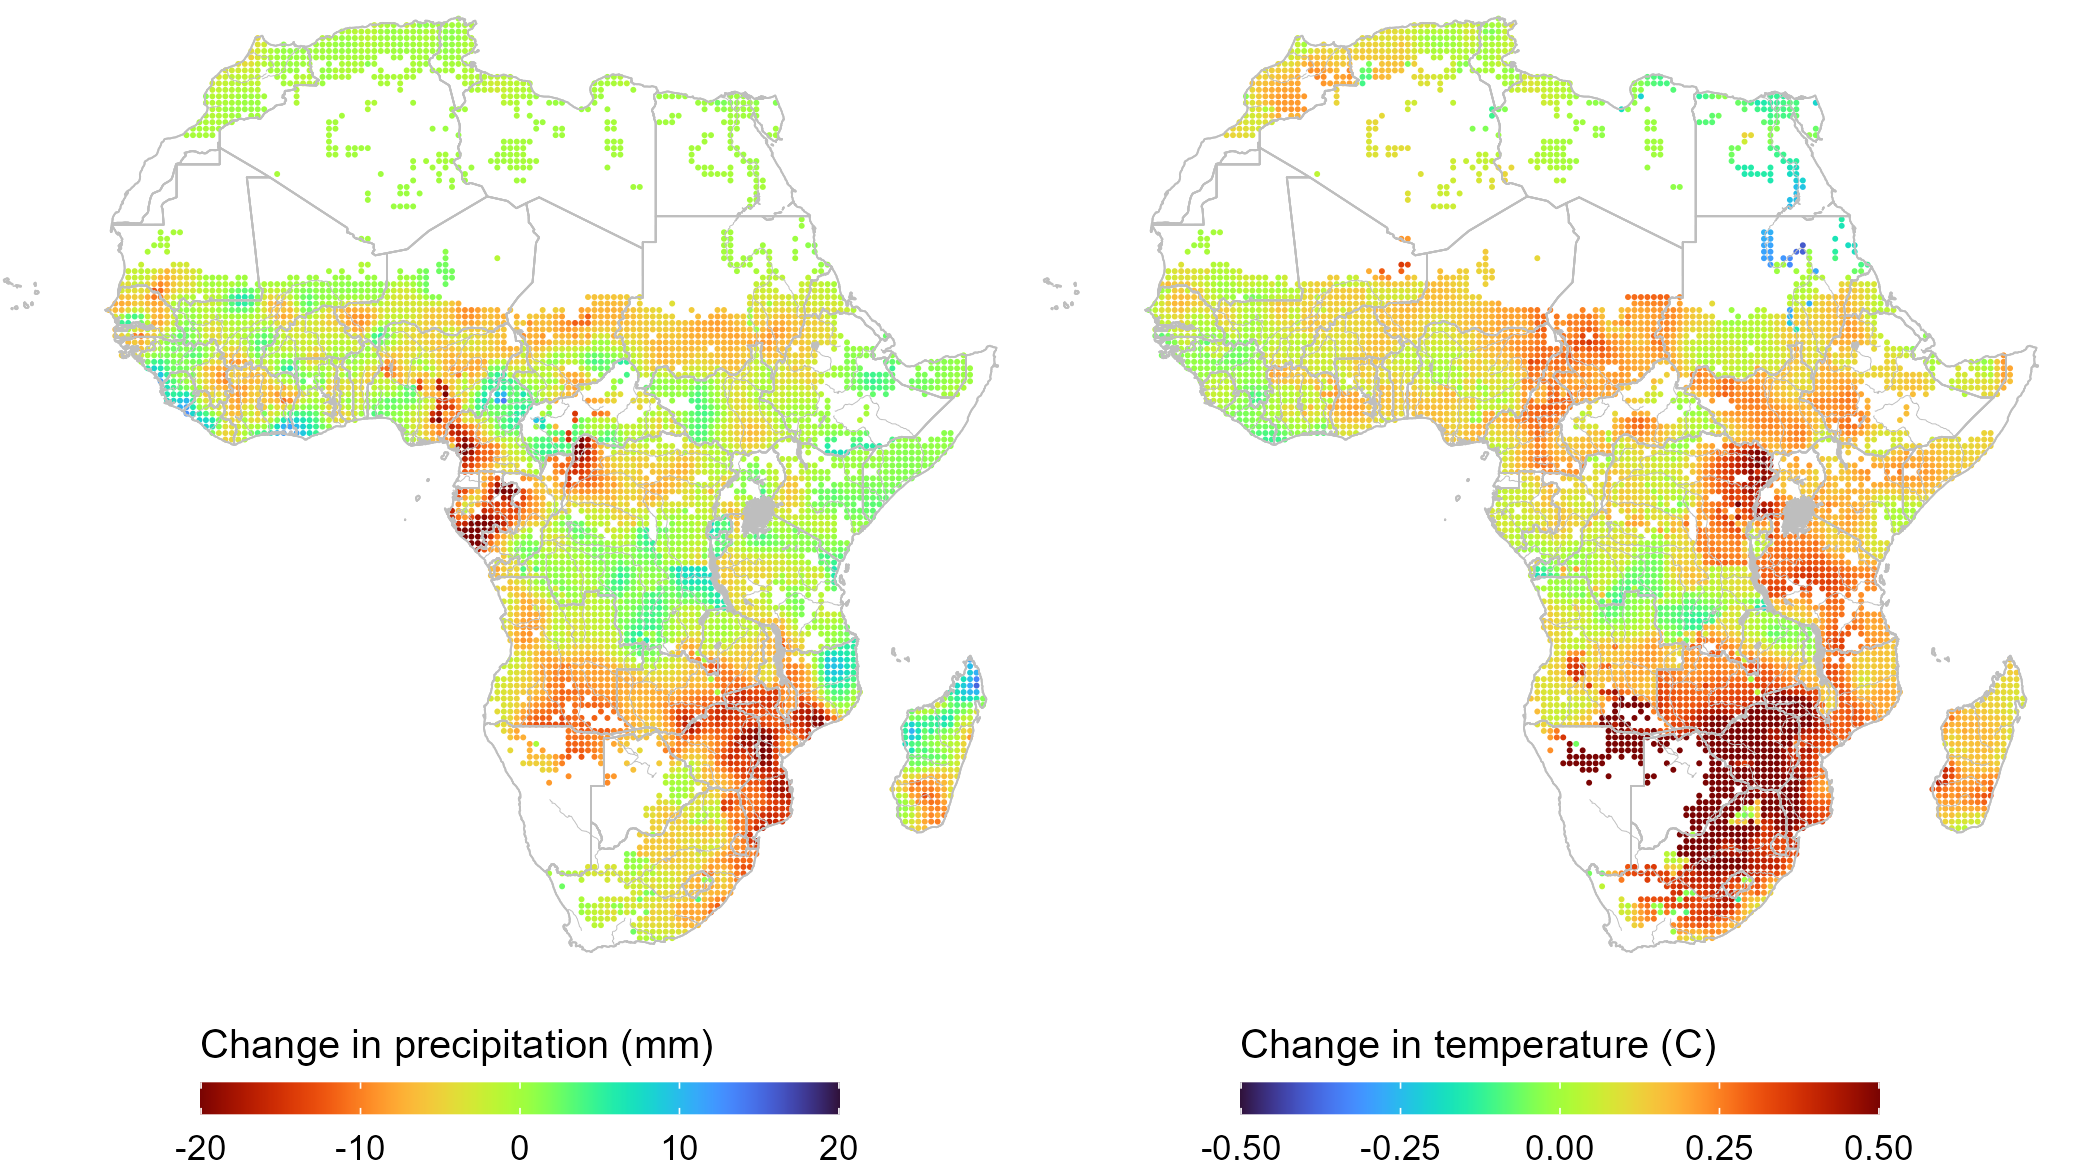
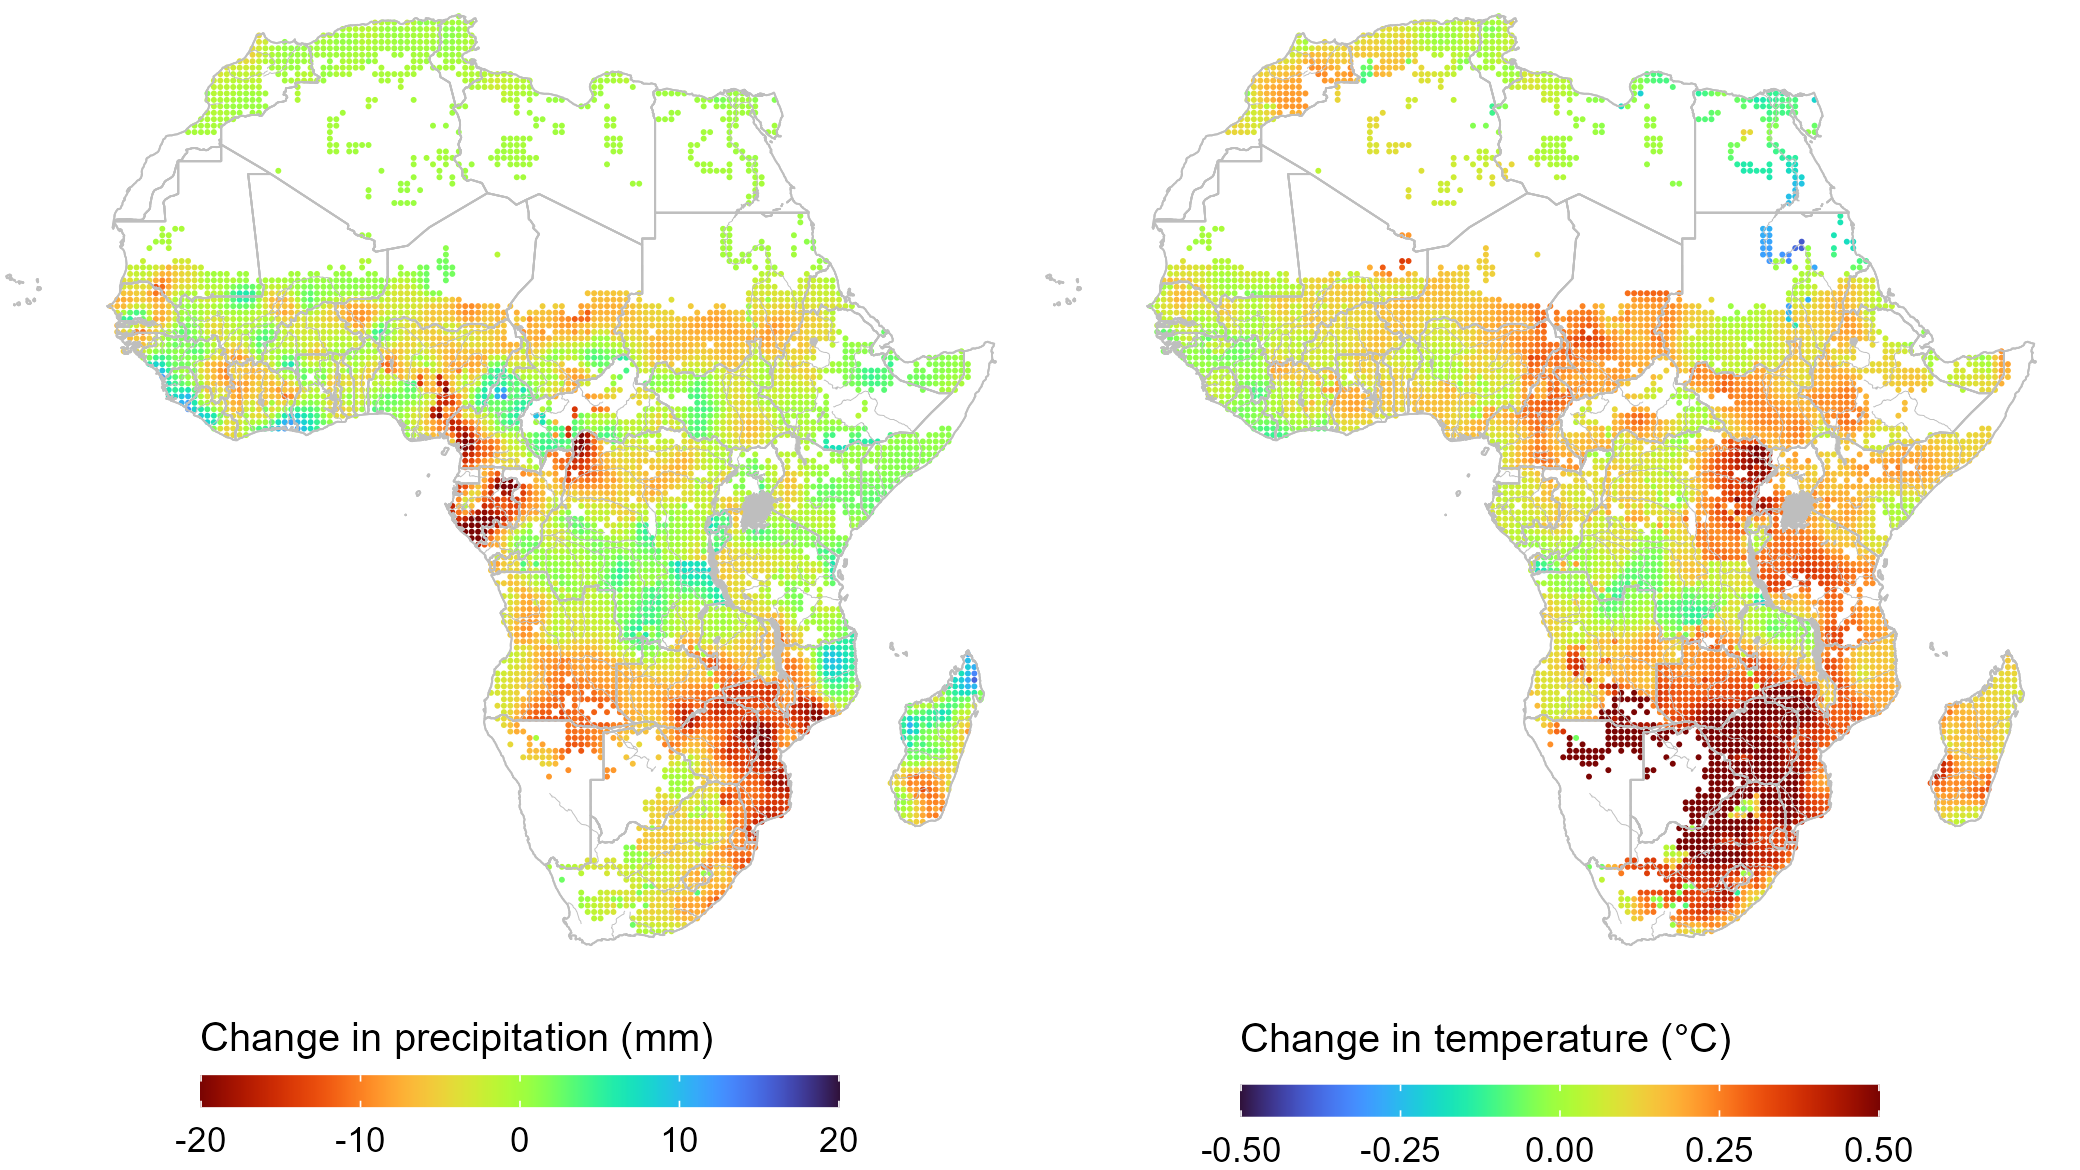
enso

diff --git a/ensoconflict/ensoconflict.html b/ensoconflict/ensoconflict.html
@@ -4,7 +4,7 @@
     <title>Climate, Crops, and Postharvest Conflict</title>
     <meta charset="utf-8" />
     <meta name="author" content="David Ubilava" />
-    <script src="libs/header-attrs-2.23/header-attrs.js"></script>
+    <script src="libs/header-attrs-2.25/header-attrs.js"></script>
     <link href="libs/remark-css-0.0.1/default.css" rel="stylesheet" />
     <link href="libs/remark-css-0.0.1/metropolis.css" rel="stylesheet" />
     <link href="libs/remark-css-0.0.1/metropolis-fonts.css" rel="stylesheet" />
@@ -18,7 +18,7 @@ class: center, middle, inverse, title-slide
 # Climate, Crops, and Postharvest Conflict
 ]
 .subtitle[
-## Presented at Semi-Periodic Agricultural &amp; Development Economics Research Symposium
+## Presented at the Sydney Environment Institute Lunchtime Seminar Series
 ]
 .author[
 ### David Ubilava
@@ -43,14 +43,14 @@ class: center, middle, inverse, title-slide
 ---
 
 
-# Precipitation forecast for Dec 2023 - Feb 2024
+# Dec 2023 - Feb 2024 forecasts (relative to 1991-2020)
 
-.left-35[
-![](figures/drought2024.png)
+.left-40[
+![](figures/DJF24_Afr_pcp.gif)
 ]
 
-.right-35[
-![](figures/floods2024.png)
+.right-40[
+![](figures/DJF24_Afr_tmp.gif)
 ]
 
 ---
@@ -70,14 +70,14 @@ In these locations, we would expect the effect to manifest itself **during the h
 
 # Yes... El Niño events reduce conflict!
 
-But **only** political violence targeted at civilians, and **only** in locations with crop agriculture and during the early postharvest season. 
+In locations with crop agriculture during the early postharvest season. 
 
-**A 1&amp;deg;C increase in the December Oceanic Niño Index (ONI)&amp;mdash;typically indicative of a moderate El Niño event&amp;mdash;is associated with at least three percent reduction in political violence during the three-months period after harvest (evaluated at average cropland size and average crop growing season intensity of ENSO teleconnections).**
+**A 1&amp;deg;C increase in the December Oceanic Niño Index (ONI)&amp;mdash;typically indicative of a moderate El Niño event&amp;mdash;is associated with at least three percent reduction in political violence with civilian targeting during the three-months period after harvest (evaluated at average cropland size and average crop growing season intensity of ENSO teleconnections).**
 
 ---
 
 
-# Historical evidence: The late 19th cebtury El Niño events
+# Anecdotal evidence: Late 19th century El Niño events
 
 
 As a result of (or in relation to) the 1876-78 El Niño events:
@@ -88,11 +88,12 @@ As a result of (or in relation to) the 1876-78 El Niño events:
 ---
 
 
-# Historical evidence: The late 19th cebtury El Niño events
+# Anecdotal evidence: Late 19th century El Niño events
 
-In Ethiopia, 'The Cruel Days' of 1888-92 were likely triggered by El Niño events that brought about droughts. 
+In Ethiopia, 'The Great Famine of 1888-92' was likely triggered (or, at least, partly aided) by El Niño events that brought about droughts. 
 
 - The lack of food provision turned provincial governors and their warriors into foraging bandits. Trade routes in Ethiopia and neighboring countries fell victim to raids aimed at appropriating imported grain (Davis, 2002).
+- Like Dutch colonialists in Indonesia, Italian invaders in Ethiopia used the pretext of abandoned lands to pave the way for the colonization of the Eritrean highlands and the Tigray plateau (Davis, 2002).
 
 ---
 
@@ -114,30 +115,21 @@ Location and timing are typically known well in advance, but crop yields are det
 
 Crop growing season weather and realized yields can influence perpetrators’ decisions as they assess whether the potential spoils to be appropriated are worth their effort ([Koren and Bagozzi, 2017](https://doi.org/10.1177/002234331668454); [McGuirk and Burke 2020](https://doi.org/10.1086/709993)).
 
-Changes in agricultural yields can induce social unrest, as farmers and non-farmers assess their well-being relative to the expectations or to the well-being of others ([Mitra and Ray, 2014](https://doi.org/10.1086/676316); [Hendrix and Haggard, 2015](https://doi.org/10.1177/00223433145615)).
+Resentment, as farmers and non-farmers assess their well-being relative to the expectations or to the well-being of others, can amplify political violence ([Mitra and Ray, 2014](https://doi.org/10.1086/676316); [Hendrix and Haggard, 2015](https://doi.org/10.1177/00223433145615)).
 
 ---
 
 
-# Conflict trends and spatial coverage
+# Oceanic Niño Index
 
 .right-85[
 
-![](figures/conflict.png)
+![](figures/oni.png)
 
 ]
 
 ---
 
-# Crop production and harvest seasons
-
-.right-85[
-
-![](figures/crops.png)
-
-]
-
----
 
 # ENSO teleconnections
 
@@ -149,6 +141,7 @@ Changes in agricultural yields can induce social unrest, as farmers and non-farm
 
 ---
 
+
 # Local weather responses to El Niño events
 
 .right-85[
@@ -159,6 +152,29 @@ Changes in agricultural yields can induce social unrest, as farmers and non-farm
 
 ---
 
+
+# Crop production and harvest seasons
+
+.right-85[
+
+![](figures/crops.png)
+
+]
+
+---
+
+
+# Political violence over time and across space
+
+.right-85[
+
+![](figures/conflict.png)
+
+]
+
+---
+
+
 # Research design
 
 I exploit variations in the ENSO–conflict relationship between cells with different numbers of months during the crop growing season, in which changes in local weather are linked to changes in sea surface temperatures during the peak ENSO season. 
@@ -168,101 +184,57 @@ The ENSO–conflict relationship in locations with small or no cropland is assum
 ---
 
 
-# Effect of El Niño on conflict
 
-`$$y_{it}=\alpha\tau_i s_t+\theta ' x_{it}+\mu_i+\lambda_t+\varepsilon_{it}$$`
+# Main result
 
-.right-50[
-![](figures/reg1.png)
-]
+A 1&amp;deg;C increase in growing-season-adjusted December ONI **reduces** political violence by `\(3.6\%\)` during the postharvest season. This effect is relative to the observed average incidents conflict in croplands (0.04) evaluated at the average cropland size (9,000 hectares) and the average teleconnection intensity (0.28).
 
----
-
-# A crop year adjusted ONI
-
-.right-85[
-
-![](figures/scheme.png)
-
-]
-
----
-
-
-# Effect of El Niño on conflict in croplands
-
-`$$y_{it}=\alpha\tau_i s_t+\beta a_i\tau_i^{gs} s_t^{gs}+\theta ' x_{it}+\mu_i+\lambda_t+\varepsilon_{it}$$`
-
-.right-50[
-![](figures/reg2.png)
-]
-
----
-
-
-# Effect of El Niño on postharvest conflict in croplands
-
-`$$y_{it}=\alpha\tau_i s_t+\beta a_i\tau_i^{gs} s_t^{gs}+\gamma a_i\tau_i^{gs} s_t^{gs}d_{it}+\delta a_i d_{it}+\theta ' x_{it}+\mu_i+\lambda_t+\varepsilon_{it}$$`
-
-.right-50[
-![](figures/reg3.png)
-]
 
 ---
 
 # Robustness checks
 
-The estimated effect is not sensitive to
+The estimated effect is not (overly) sensitive to
 
 - different sets of fixed effects
 - different sizes of postharvest windows
-- omitting conflict 'hotspots'
+- omitting conflict hotspots
+- different measures of teleconnection
 - using incidence as the dependent variable
 
 ---
 
-# 'Bad' El Niño
+# Adverse El Niño
 
-.left-45[
-![](figures/goodbad.png)
-]
+In a subset of countries where most of the cropland is characterized by a simultaneous decrease in average growing season precipitation and increase in average growing season maximum temperature in response to a positive deviation in December ONI:
 
-.right-50[
-![](figures/reg4.png)
-]
+A 1&amp;deg;C increase in growing-season-adjusted December ONI **reduces** political violence by `\(4.6\%\)` during the postharvest season. 
+
+In the rest of the countries the effect is smaller and not significant.
+
 
 ---
 
-# 'Agrarian' conflict
+# Agrarian conflict
 
-.left-45[
+
 **Keywords**: farm, farmer, peasant, producer, agriculture, agricultural, livestock, animal, cattle, sheep, goat, crop, cereal, grain, maize, millet, rice, sorghum, wheat, produce, food, harvest.
-]
 
-.right-50[
-![](figures/reg5.png)
-]
+A 1&amp;deg;C increase in growing-season-adjusted December ONI **reduces** political violence by `\(6.7\%\)` during the postharvest season. 
 
 ---
 
 
-# 'Strongly' vs 'Weakly' teleconnected countries
+# Conflict dynamics
 
 .right-85[
 
-![](figures/countries.png)
+![](figures/event_study.png)
 
 ]
 
 ---
 
-# 'Strongly' vs 'Weakly' teleconnected countries
-
-.right-50[
-![](figures/reg6.png)
-]
-
----
 
 
 # Contribution to climate-conflict nexus
@@ -283,7 +255,7 @@ ENSO-related changes in conflict materialize through the agricultural channel.
 
 While not surprising, this finding unveils an important nuance related to the seasonal nature of agricultural production: **the effect aligns with crop-year calendars and manifests during the early postharvest season**. 
 
-This finding accords with recent literature on the positive relationship between agricultural output and conflict (e.g., [McGuirk and Burke 2020](https://doi.org/10.1086/709993); [Crost and Felter 2020](https://doi.org/10.1093/jeea/jvz025); [Koren and Schon 2023](https://link.springer.com/article/10.1007/s10113-023-02090-7)) and contributes to the emerging literature on the seasonal patterns of conflict (Guardado and Pennings 2023; [Ubilava et al. 2023](https://doi.org/10.1111/ajae.12364)).
+This accords with recent literature on the positive relationship between agricultural output and conflict (e.g., [McGuirk and Burke 2020](https://doi.org/10.1086/709993); [Koren and Schon 2023](https://link.springer.com/article/10.1007/s10113-023-02090-7)) and contributes to the emerging literature on the seasonality of conflict (Guardado and Pennings 2023; [Ubilava et al. 2023](https://doi.org/10.1111/ajae.12364)).
 
 ---
 
@@ -300,9 +272,11 @@ Lack of political violence may be seen as a sign of food scarcity and increased 
 
 # Policy implications
 
-These findings also have clear policy implications in establishing an **early-warning system for political violence in ENSO-affected regions** of Africa. 
+**Because we can predict ENSO events at least several months in advance**, the estimated linkages between ENSO shocks and conflict can have clear policy implications in establishing an early-warning system for political violence in ENSO-affected regions of Africa.
 
-**Because we can predict ENSO events** at least several months in advance, the estimated linkages between ENSO shocks and conflict may help guide local authorities and international organizations in making spatiotemporal adjustments to the scope and extent of their peacemaking activities.
+**Because ENSO events can simultaneously alter several weather variables**, including extreme weather events, across large swathes of land, the ENSO effect can be viewed as a better approximation of the effect of changing climate on societal outcomes
+
+
 
 ---
 
@@ -321,8 +295,6 @@ These findings also have clear policy implications in establishing an **early-wa
 #### Keeley, L. H. (2016). Food for War, War for Food, and War on Food. In: van Derwarker, A., Wilson, G. (eds) The Archaeology of Food and Warfare. Springer.
 
 #### Kreike, E. (2022). A Perfect Tsunami? El Niño, War and Resilience on Aceh, Sumatra. In Perspectives on Public Policy in Societal-Environmental Crises: What the Future Needs from History (pp. 123–44). Springer.
-
-#### Rudé, G. F. (1964). The Crowd in History: A Study of Popular Disturbances in France and England, 1730–1848. Wiley.
 
 
 

diff --git a/ensoconflict/libs/header-attrs-2.25/header-attrs.js b/ensoconflict/libs/header-attrs-2.25/header-attrs.js
@@ -1,0 +1,12 @@
+// Pandoc 2.9 adds attributes on both header and div. We remove the former (to
+// be compatible with the behavior of Pandoc < 2.8).
+document.addEventListener('DOMContentLoaded', function(e) {
+  var hs = document.querySelectorAll("div.section[class*='level'] > :first-child");
+  var i, h, a;
+  for (i = 0; i < hs.length; i++) {
+    h = hs[i];
+    if (!/^h[1-6]$/i.test(h.tagName)) continue;  // it should be a header h1-h6
+    a = h.attributes;
+    while (a.length > 0) h.removeAttribute(a[0].name);
+  }
+});

diff --git a/style_old.css b/style_old.css
@@ -1,0 +1,11 @@
+.remark-slide-content {
+  font-size: 28px;
+  font-weight: 300;
+  line-height: 1.6;
+  padding: 1em 2em 1em 2em;
+}
+
+h1 {
+  font-weight: normal;
+  margin-top: -105px;
+}

diff --git a/ensoconflict/style.css b/ensoconflict/style.css
@@ -170,6 +170,11 @@ a:active {
   float: left;
   width: 35%;
 }
+.left-40 {
+  padding-top: 0;
+  float: left;
+  width: 40%;
+}
 .left-45 {
   padding-top: 0;
   float: left;
